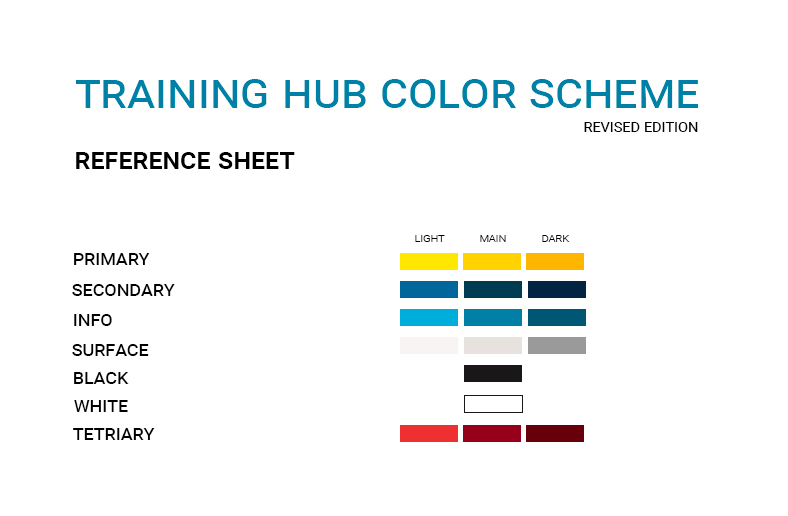
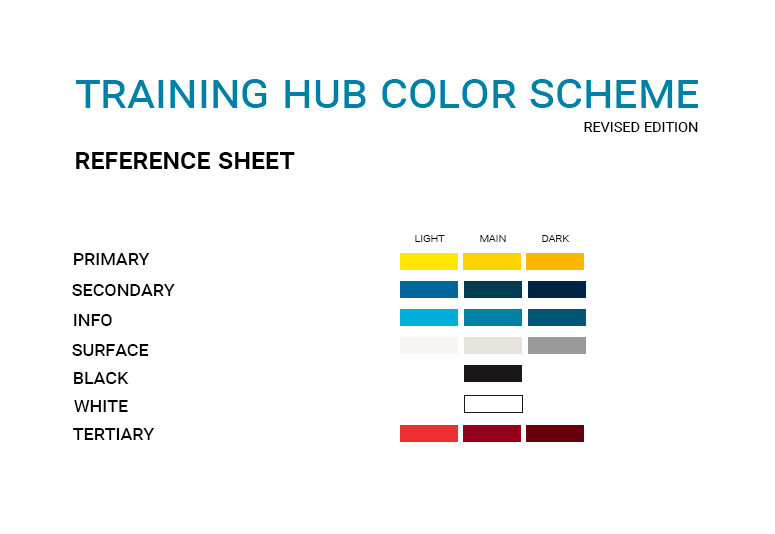
Fix typo

diff --git a/src/components/Providers/ThemeRegistry/theme.ts b/src/components/Providers/ThemeRegistry/theme.ts
@@ -9,14 +9,14 @@ declare module '@mui/material/styles' {
   // Types for new additional colors
   // eslint-disable-next-line no-unused-vars
   interface Palette {
-    tetriary: PaletteColor;
+    tertiary: PaletteColor;
     surface: PaletteColor;
     black: PaletteColor;
     white: PaletteColor;
   }
   // eslint-disable-next-line no-unused-vars
   interface PaletteOptions {
-    tetriary?: PaletteColorOptions;
+    tertiary?: PaletteColorOptions;
     surface?: PaletteColorOptions;
     black?: PaletteColorOptions;
     white?: PaletteColorOptions;
@@ -37,7 +37,7 @@ let theme = createTheme({
       dark: '#002943',
       contrastText: '#fff',
     },
-    tetriary: {
+    tertiary: {
       main: '#800020', // deep burgundy
       light: '#cc3333',
       dark: '#590013',
